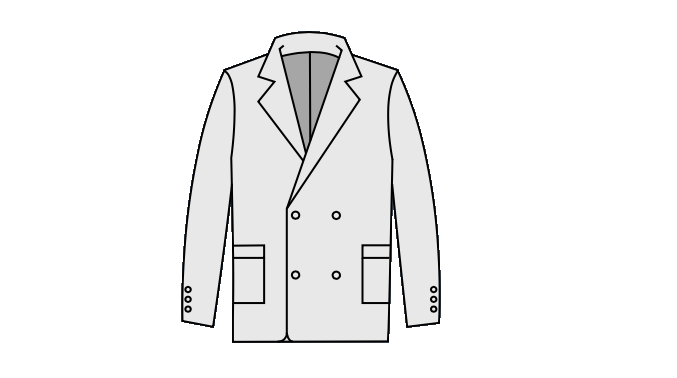
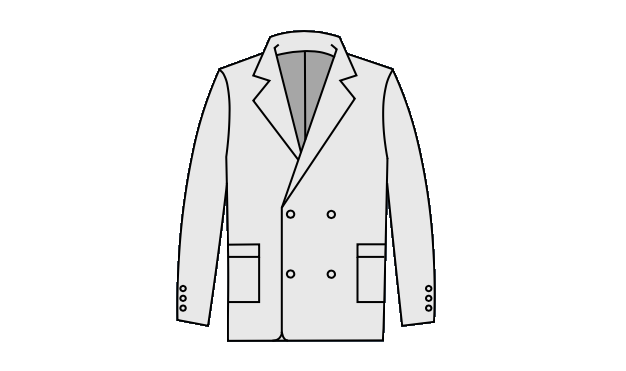
started fixing image sizes, added new favorites sorting, fixed mobile navbar

Changed region(s): [[0.2428, 0.0593, 0.6981, 0.9191]]

diff --git a/public/js/favorites.js b/public/js/favorites.js
@@ -8,24 +8,38 @@ const favoritesTips = document.querySelector('#favoritesTips')
 
 const optionSelect = document.querySelector('#optionSelect')
 const recentFavorites = document.querySelector('#recentFavorites')
-const oldFavorites = document.querySelector('#oldFavorites')
+const businessProfessionalSort = document.querySelector('#businessProfessionalSort')
+const businessCasualSort = document.querySelector('#businessCasualSort')
+const test = document.getElementsByClassName('test')
+
+
 
 optionSelect.addEventListener('change', sortFavorites)
 
 function sortFavorites(event) {
     if (event.target.value=="recentlyAdded") {
-        $(oldFavorites).animate({ opacity: 0 }, 500, function() {
-            oldFavorites.style.display="none"
+        $(test).animate({ opacity: 0 }, 500, function() {
+            businessProfessionalSort.style.display="none"
+            businessCasualSort.style.display="none"
             recentFavorites.style.display="flex"
-            recentFavorites.style.opacity= 0
+            // recentFavorites.style.opacity= 0
             $(recentFavorites).animate({ opacity: 1 }, 500);
           });
-    } else {
-        $(recentFavorites).animate({ opacity: 0 }, 500, function() {
+    }  else if (event.target.value=="businessProfessional") {
+        $(test).animate({ opacity: 0 }, 500, function() {
+            businessCasualSort.style.display="none"
             recentFavorites.style.display="none"
-            oldFavorites.style.display="flex"
-            oldFavorites.style.opacity= 0
-            $(oldFavorites).animate({ opacity: 1 }, 500);
+            businessProfessionalSort.style.display="flex"
+            // businessProfessionalSort.style.opacity= 0
+            $(businessProfessionalSort).animate({ opacity: 1 }, 500);
+          });
+    } else {
+        $(test).animate({ opacity: 0 }, 500, function() {
+            businessProfessionalSort.style.display="none"
+            recentFavorites.style.display="none"
+            businessCasualSort.style.display="flex"
+            // businessCasualSort.style.opacity= 0
+            $(businessCasualSort).animate({ opacity: 1 }, 500);
           });
     }   
     console.log(event.target.value)

diff --git a/public/css/style.css b/public/css/style.css
@@ -9,7 +9,17 @@
 }
 
 
+.favoritesSortedFirst {
+    order: 0
+}
 
+.favoritesSortedLast {
+    order: 1
+}
+
+.jacket {
+    object-fit: fill !important;
+}
 
 main {
     padding: 0 5%;
@@ -532,7 +542,7 @@ footer {
     display: block;
     margin: 0 auto 2rem auto;
     padding: 5% 10%;
-    width: 160px;
+    width: 140px;
     height: 30px;
     border: 1px solid #999;
     font-size: 18px;
@@ -549,7 +559,14 @@ footer {
     justify-content: center;
 }
 
-#oldFavorites {
+#businessProfessionalSort {
+    display: none;
+    flex-direction: row;
+    flex-wrap: wrap;
+    justify-content: center;
+}
+
+#businessCasualSort {
     display: none;
     flex-direction: row;
     flex-wrap: wrap;
@@ -723,12 +740,13 @@ Description: Define screen-size breakpoints here.
 
     #mainnav #menu {
         display: inline-block;
+        /* font-family: -apple-system; */
         line-height: 4rem;
         font-size: 4rem;
         text-align: left;
-        padding: 0em .3em .338em 1.4em;
+        padding: 0em .3em .48em 1.4em;
         vertical-align: middle;
-        color: white;
+        color: rgb(223, 208, 249);
     }
 
     #outfitLogoMobile {
@@ -860,12 +878,19 @@ Description: Define screen-size breakpoints here.
         margin: 0;
     }
 
-    #oldFavorites {
+    #businessProfessionalSort {
         display: none;
         flex-direction: row;
         flex-wrap: wrap;
         justify-content: center;
         margin: 0;
+    }
+
+    #businessCasualSort {
+        display: none;
+        flex-direction: row;
+        flex-wrap: wrap;
+        justify-content: center;
     }
 
     .favoritesItem {
